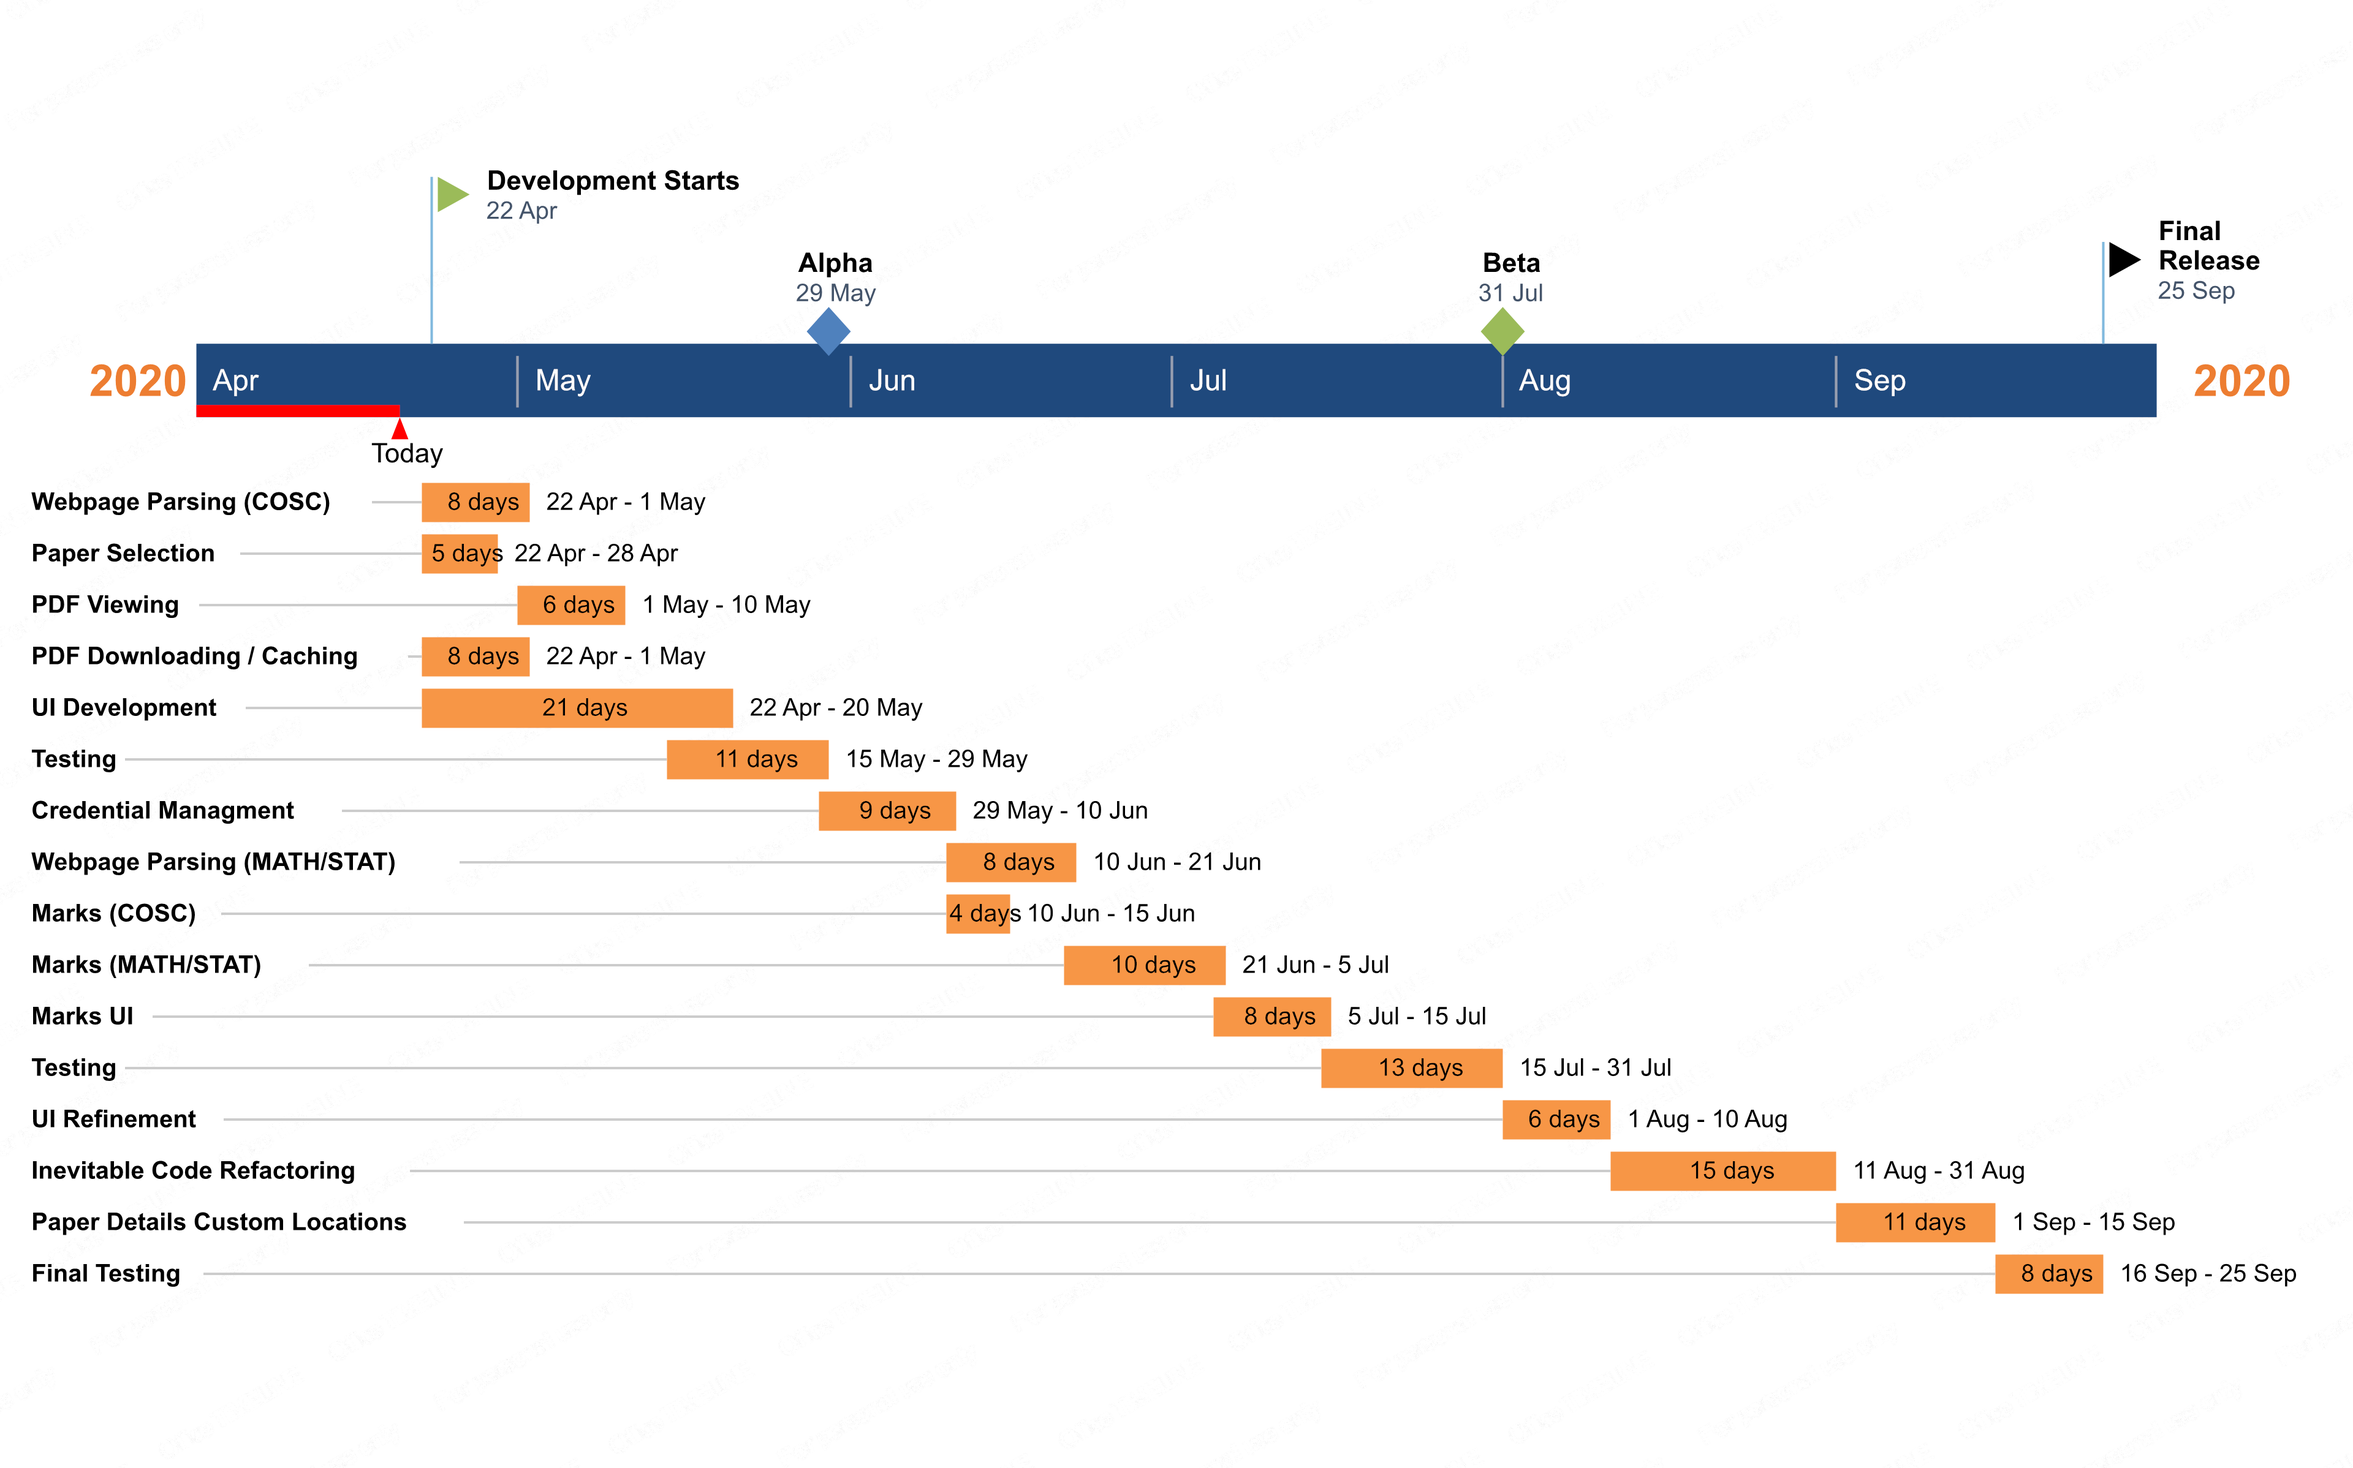
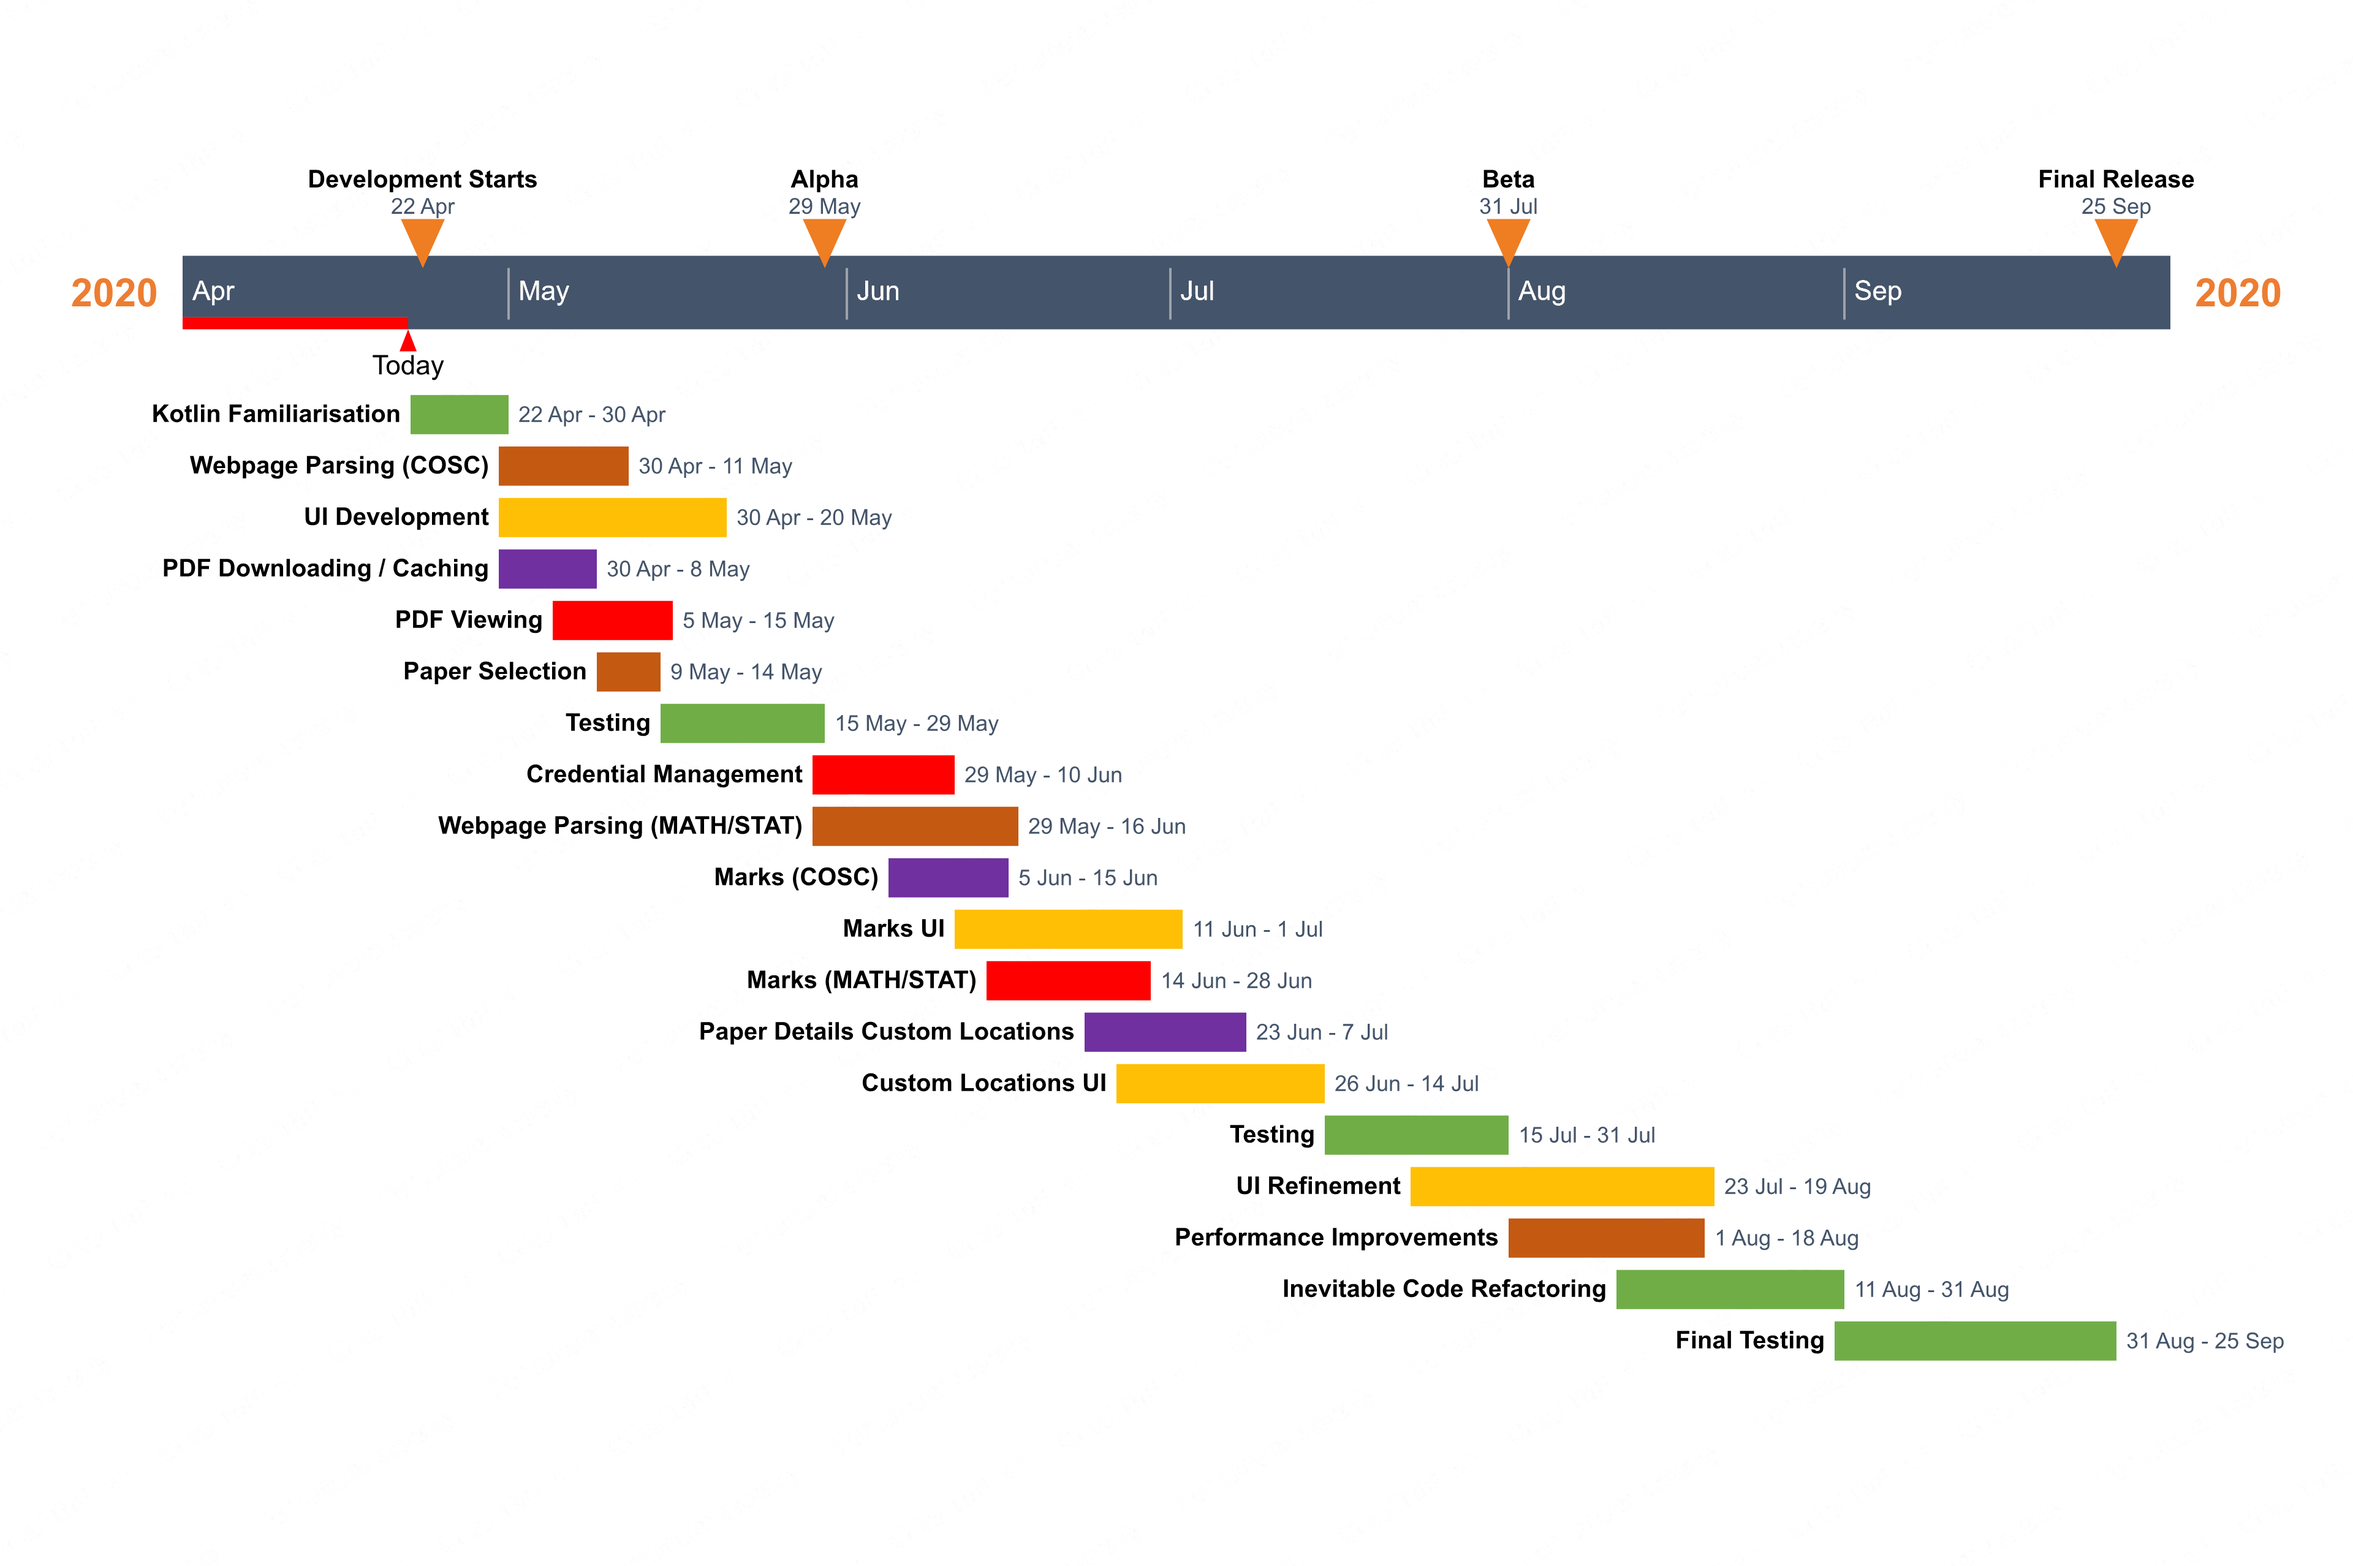
Improved formatting, improved chart

Changed region(s): [[0.0, 0.0926, 0.9688, 0.8953]]

diff --git a/proposal/proposal.tex b/proposal/proposal.tex
@@ -6,37 +6,77 @@
 \usepackage{hyperref}
 \usepackage{graphicx}
 \usepackage{float}
+\usepackage{xcolor}
+
+\definecolor{ag}{RGB}{112,173,71}
+\definecolor{bl}{RGB}{196,89,18}
+\definecolor{ds}{RGB}{255,0,0}
+\definecolor{gw}{RGB}{255,191,4}
+\definecolor{lw}{RGB}{112,48,160}
 
 \title{COSC345 App Proposal}
-\author{Name 1 (ID 1) Name 2 (ID 2) \\ Damian Soo (6551336) Louis Whitburn (2548261)}
+
+%Names in alphabetical order by surname
+\author{Burnie Lorimer (ID 1) Damian Soo (6551336) \\ Garth Wales (ID 3) Louis Whitburn (2548261)}
 \date{\today}
 
 \begin{document}
 	\maketitle
 	
+	\section{What we intend to build}
+	
 	We are building an android app to display university course material. This will be targeted towards displaying content from \url{cs.otago.ac.nz} primarily. It will provide an easy to view format of each paper for mobile devices. Information will be pulled from the websites themselves and formatted.
 	
-	Our team consists of: (previous years people wrote quite a bit about each member)
-	(we should probably work out roles and talk about our strengths or something)
+	\subsection{Requirements}
+	
 	\begin{itemize}
-		\item Louis Whitburn – Programming
-		\item Garth Wales – Front end UI development
-		\item BJ - 
+		\item Should support differentiating between lecture, tutorial and assignment PDFs for undergraduate COSC papers, and handle PDFs in general for MATH/STAT papers.
+		\item Should support querying marks for COSC and MATH/STAT papers.
+		\item Should be able to download and display a PDF file to the user within 3s of the user selecting it.
+		\item Should be able to display a downloaded (i.e. cached) PDF within 0.5s of the user selecting it.
+		\item Should warn the user before downloading on mobile data.
+	\end{itemize}
+	
+	\section{Our anarchists}
+	
+	Our team consists of: 
+	\begin{itemize}
+		\item Burnie Lorimer - 
 		\item Damian Soo – Programming (change later)
+		\item Garth Wales – Front end UI development
+		\item Louis Whitburn – Programming
 	\end{itemize}
 
-	We are using Kotlin and intend to target Android API level 28 (Android version 9). The app will function by using common formats of each department to guess the locations of papers lecture slides or other information. An example being \url{cs.otago.ac.nz/(papercode)/lectures.php} is where most COSC papers have their lecture slide PDFs. The app will then cache and display the information from these pages.
+	\section{How we are going to build it}
+
+	We will use Android Studio with Kotlin, We intend to target Android API level 28 (Android version 9). The app will function by using common formats of each department to guess the locations of papers lecture slides or other information. An example being \url{cs.otago.ac.nz/(papercode)/lectures.php} is where most COSC papers have their lecture slide PDFs. The app will then cache and display the information from these pages.
+
+	\section{How long it will take to build}
 
 	We will begin by implementing PDF viewing capabilities and pulling the PDF from one specific paper, then expand into a better dynamic system. 
 
 	It will take roughly 5 months of part time work to complete the app, including some time for unexpected issues or setbacks.
 	
-	\begin{figure}[h!]
+	The key targets and milestones are laid out below.
+	
+	\begin{itemize}
+		\item All group: {\color{ag} \rule{\baselineskip}{\baselineskip}}
+		\item Burnie Lorimer: {\color{bl} \rule{\baselineskip}{\baselineskip}}
+		\item Damien Soo: {\color{ds} \rule{\baselineskip}{\baselineskip}}
+		\item Garth Wales: {\color{gw} \rule{\baselineskip}{\baselineskip}}
+		\item Louis Whitburn: {\color{lw} \rule{\baselineskip}{\baselineskip}}
+	\end{itemize}
+	
+	\begin{figure}[H]
 		\centering
 		\includegraphics[width=\linewidth]{chart.png}
 	\end{figure}
 	
-	Our biggest risk is website formats changing causing the app to no longer function. Either with individual papers changing the layout or using different systems such as blackboard. For blackboard we will explore credential storage to access pages behind passwords to ensure we have full coverage.
+	\section{Pre-existing options and causing irritation}
 	
-	The establishment already has websites such as \url{cs.otago.ac.nz}. However, these websites are rubbish on mobile devices and they do not provide any mobile solutions. We will irritate the establishment by creating a better alternative to their existing solutions. We will be doing this with our source code hosted on the establishments own gitlab server \url{altitude.otago.ac.nz} to add insult to injury.
+	The establishment already has websites such as \url{cs.otago.ac.nz}. However, these websites are rubbish on mobile devices and they do not provide any mobile solutions. We will irritate the establishment by creating a better alternative to their existing solutions. We will be doing this with our source code hosted on the establishment's own GitLab server \url{altitude.otago.ac.nz} to add insult to injury.
+	
+	\section{Risks}
+	
+	Our biggest risk is website formats changing causing the app to no longer function. Either with individual papers changing the layout or using different systems such as blackboard. For blackboard we will explore credential storage to access pages behind passwords to ensure we have full coverage.
 \end{document}
